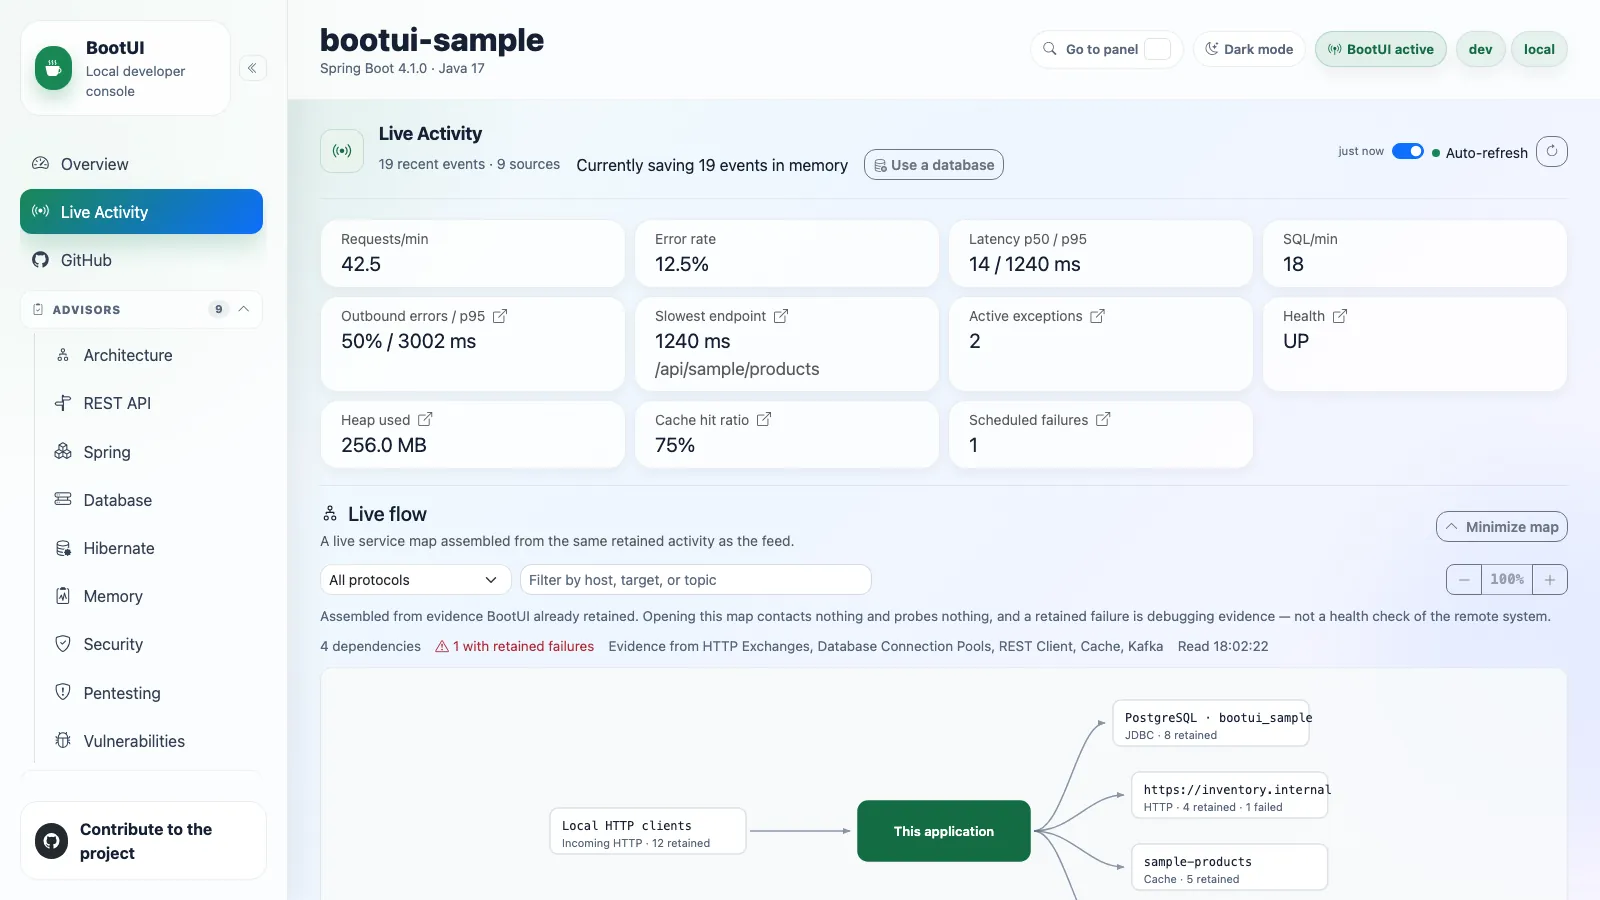
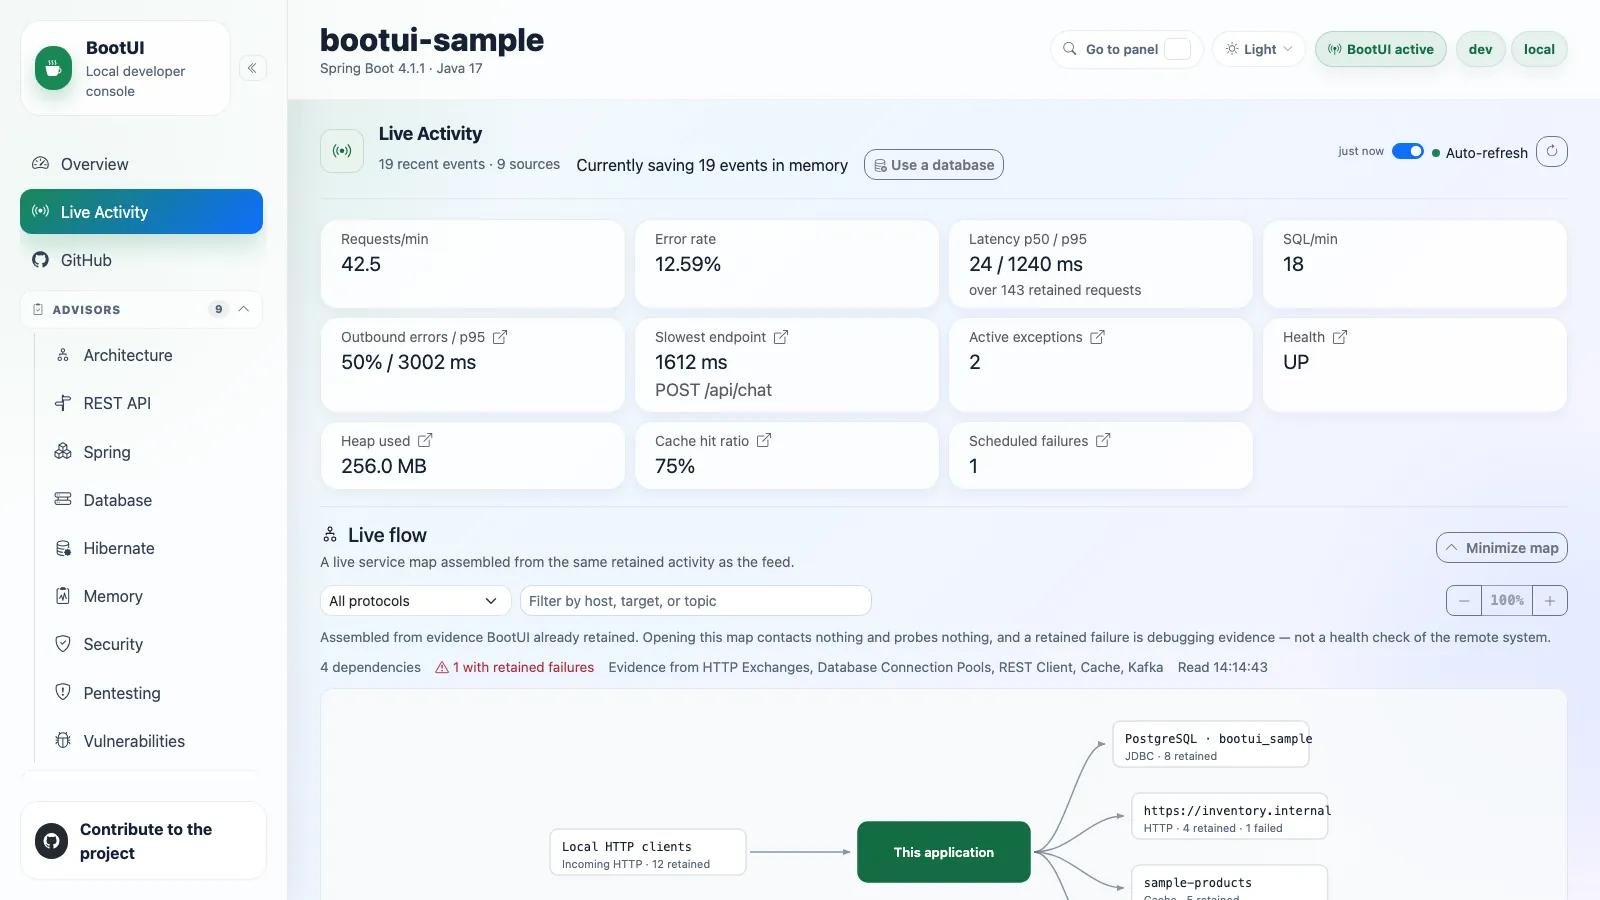
Refresh BootUI deck numbers and screenshots from boot-ui main (1.19.0)
Panels 58->60, advisor rules 437->411 (per-advisor counts updated),
MCP tools ~79->90, Live Activity signals 9->10, GraalVM/CRaC checks
30/19, Quarkus security 45, version 1.19.0, refreshed screenshots.

Copilot-Session: ac353815-7a11-4caa-8aef-dd2f95337d04

diff --git a/conferences/bootui/index-en.html b/conferences/bootui/index-en.html
@@ -447,7 +447,7 @@
         <div class="gh-main">
             <h1>Introduction to<br/><span class="grad">BootUI</span></h1>
             <p class="gh-lede">Your app is a black box. BootUI turns the lights on.</p>
-            <p class="gh-sub">An embedded developer console for Spring Boot 4 and Quarkus. One codebase, three stacks, 58 panels. 🔦</p>
+            <p class="gh-sub">An embedded developer console for Spring Boot 4 and Quarkus. One codebase, three stacks, 60 panels. 🔦</p>
             <div class="gh-foot">
                 <ul class="gh-tags"><li>Developer console</li><li>Spring Boot 4 · Quarkus</li><li>Local-only · fail-closed</li></ul>
                 <div class="gh-speaker">
@@ -567,7 +567,7 @@
         <div class="card t-blue">
             <h3 class="blue">🩺 Advisors</h3>
             <ul class="tight">
-                <li><span class="ink fw-700">437 rules</span> across 10 advisors — architecture, security,
+                <li><span class="ink fw-700">411 rules</span> across 10 advisors — architecture, security,
                     Hibernate, memory, dependencies</li>
                 <li>Every finding names the cause and the <span class="ink fw-700">fix</span></li>
                 <li>One score out of 100, on demand — never on page load</li>
@@ -576,7 +576,7 @@
         <div class="card t-teal">
             <h3 class="teal">📊 A live console</h3>
             <ul class="tight">
-                <li><span class="ink fw-700">58 panels</span> in 9 groups, in your browser</li>
+                <li><span class="ink fw-700">60 panels</span> in 9 groups, in your browser</li>
                 <li>Requests, SQL, transactions, exceptions and the JVM —
                     <span class="ink fw-700">as they happen</span></li>
                 <li>Explains what it means first; raw JSON one click away</li>
@@ -585,7 +585,7 @@
         <div class="card t-violet">
             <h3 class="violet">🤖 An MCP server</h3>
             <ul class="tight">
-                <li>The same data, <span class="ink fw-700">≈79 tools</span>, for your coding agent</li>
+                <li>The same data, <span class="ink fw-700">90 tools</span>, for your coding agent</li>
                 <li>Opt-in and loopback only — off until you turn it on</li>
                 <li>Your agent stops guessing and <span class="ink fw-700">reads the running app</span></li>
             </ul>
@@ -629,7 +629,7 @@
 <div class="codeblock">&lt;<span class="k">dependency</span>&gt;
   &lt;<span class="k">groupId</span>&gt;<span class="s">com.julien-dubois.bootui</span>&lt;/<span class="k">groupId</span>&gt;
   &lt;<span class="k">artifactId</span>&gt;<span class="s">bootui-spring-boot-starter</span>&lt;/<span class="k">artifactId</span>&gt;
-  &lt;<span class="k">version</span>&gt;<span class="s">1.15.0</span>&lt;/<span class="k">version</span>&gt;
+  &lt;<span class="k">version</span>&gt;<span class="s">1.19.0</span>&lt;/<span class="k">version</span>&gt;
 &lt;/<span class="k">dependency</span>&gt;</div>
             <div class="txt-xs muted mt-xs"><span class="mono">-reactive</span> for WebFlux.</div>
         </div>
@@ -638,7 +638,7 @@
 <div class="codeblock">&lt;<span class="k">dependency</span>&gt;
   &lt;<span class="k">groupId</span>&gt;<span class="s">com.julien-dubois.bootui</span>&lt;/<span class="k">groupId</span>&gt;
   &lt;<span class="k">artifactId</span>&gt;<span class="s">bootui-quarkus</span>&lt;/<span class="k">artifactId</span>&gt;
-  &lt;<span class="k">version</span>&gt;<span class="s">1.15.0</span>&lt;/<span class="k">version</span>&gt;
+  &lt;<span class="k">version</span>&gt;<span class="s">1.19.0</span>&lt;/<span class="k">version</span>&gt;
 &lt;/<span class="k">dependency</span>&gt;</div>
             <div class="txt-xs muted mt-xs">A real Quarkus extension — runtime + deployment.</div>
         </div>
@@ -659,10 +659,10 @@
      SLIDE 8 — THE NUMBERS + THE MAP
 ══════════════════════════════════════════════════════════════ -->
 <section>
-    <h2>🧭 58 panels, 9 groups, one question each</h2>
+    <h2>🧭 60 panels, 9 groups, one question each</h2>
 
     <div class="grid-4" style="margin:0 0 .7em;">
-        <div class="card t-indigo"><div class="stat-num indigo">58</div><div class="stat-label">panels across 9 groups</div></div>
+        <div class="card t-indigo"><div class="stat-num indigo">60</div><div class="stat-label">panels across 9 groups</div></div>
         <div class="card t-teal"><div class="stat-num teal">3</div><div class="stat-label">stacks · one codebase</div></div>
         <div class="card t-violet"><div class="stat-num violet">1</div><div class="stat-label">Vue UI · one JSON contract</div></div>
         <div class="card t-emerald"><div class="stat-num emerald">0</div><div class="stat-label">extra processes to run</div></div>
@@ -778,11 +778,11 @@
 
     <div class="grid-2">
         <div class="card t-blue">
-            <h3 class="blue">437 rules, written with AI</h3>
+            <h3 class="blue">411 rules, written with AI</h3>
             <ul class="tight mt-sm">
                 <li>Every rule is its own class with a <span class="ink fw-700">stable id</span>, a severity and a
-                    <span class="ink fw-700">concrete recommendation</span> — Hibernate alone has 75, Security 61,
-                    REST&nbsp;API 56</li>
+                    <span class="ink fw-700">concrete recommendation</span> — Hibernate alone has 72, Security 54,
+                    REST&nbsp;API 53</li>
                 <li>Written with AI, then reviewed <span class="ink fw-700">one rule at a time</span>: the strongest
                     models applied to framework expertise, not a generic linter</li>
                 <li>No other console for Spring&nbsp;Boot or Quarkus carries a ruleset of this depth — it is
@@ -797,7 +797,7 @@
             <ul class="tight">
                 <li>9 severity-scored scanners, each starting at 100</li>
                 <li>Fixed penalties: <span class="mono">critical −25</span> · <span class="mono">high −10</span> · <span class="mono">medium −3</span> · <span class="mono">low −1</span></li>
-                <li>Overall = the mean of scanners that <span class="ink fw-700">actually scored</span></li>
+                <li>Overall = the mean of scanners that <span class="ink fw-700">actually scored</span> — plus GitHub's security-alert score when connected</li>
             </ul>
             <div class="mt-sm">
                 <div class="band"><span class="dot" style="background:var(--emerald);"></span> <b>80+</b>&nbsp; Good</div>
@@ -808,24 +808,24 @@
     </div>
 
     <div class="tagrow mt-md" style="justify-content:center;">
-        <span class="tag">Architecture 41</span><span class="tag">REST API 56</span><span class="tag">Spring 41</span>
-        <span class="tag">Quarkus 19</span><span class="tag">Database 28</span><span class="tag">Hibernate 75</span>
-        <span class="tag">Memory 36</span><span class="tag">Security 61</span><span class="tag">Pentesting 80</span>        <span class="tag">Vulnerabilities ∞</span>
+        <span class="tag">Architecture 40</span><span class="tag">REST API 53</span><span class="tag">Spring 41</span>
+        <span class="tag">Quarkus 14</span><span class="tag">Database 28</span><span class="tag">Hibernate 72</span>
+        <span class="tag">Memory 32</span><span class="tag">Security 54</span><span class="tag">Pentesting 77</span><span class="tag">Vulnerabilities ∞</span>
     </div>
 
     <div class="banner mt-sm sm">
         🛑 <span style="text-decoration:underline;text-decoration-color:rgba(255,255,255,.55);">Nothing is scanned on page load.</span>
-        Before any run, the gauge shows how many scanners have scored — not a fake zero. <span class="mono">Vulnerabilities</span> has no fixed count: it queries OSV.dev for known CVEs and adds how likely each one is to actually be exploited.
+        Before any run, Overview reads <em>Not scored</em> — never a fake zero. <span class="mono">Vulnerabilities</span> has no fixed count: it queries OSV.dev for known CVEs and adds how likely each one is to actually be exploited.
     </div>
 
     <aside class="notes">
-        Land the number: 437 rules, one class each, across the ten advisors on the slide. This is the moat — anyone can
+        Land the number: 411 rules, one class each, across the ten advisors on the slide. This is the moat — anyone can
         render a bean graph, nobody else has spent the time on the ruleset. Be straight about how it was built: written
         with AI, the strongest models pointed at real framework expertise, then reviewed rule by rule.
-        If asked, the shipped library is larger still: Quarkus apps swap Spring Security's 61 rules for 49
-        Quarkus-native ones, and WebFlux gets 26 reactive security rules — 512 rules in total, ported per stack rather
+        If asked, the shipped library is larger still: Quarkus apps swap Spring Security's 54 rules for 45
+        Quarkus-native ones, and WebFlux gets 26 reactive security rules — 482 rules in total, ported per stack rather
         than faked.
-        Two details worth saying out loud but not putting on the slide: Pentesting is 80 OWASP Top 10 2025 checks and
+        Two details worth saying out loud but not putting on the slide: Pentesting is 77 OWASP Top 10 2025 checks and
         sends at most one GET and one OPTIONS to literal 127.0.0.1; and when evidence is bounded away the scan is
         marked PARTIAL and the score is hidden rather than faked.
         The restraint is the story: a security tool that refuses to phone home until asked. Worth saying out loud:
@@ -847,11 +847,12 @@
 
     <div class="grid-2">
         <div class="card t-teal">
-            <h3 class="teal">One feed, nine signals</h3>
+            <h3 class="teal">One feed, ten signals</h3>
             <div class="tagrow">
                 <span class="tag">Requests</span><span class="tag">SQL</span><span class="tag">Exceptions</span>
                 <span class="tag">Security</span><span class="tag">Emails</span><span class="tag">Scheduled</span>
                 <span class="tag">Messaging</span><span class="tag">REST client</span><span class="tag">Cache</span>
+                <span class="tag">Fault tolerance</span>
             </div>
             <ul class="tight mt-sm">
                 <li>Signals <span class="ink fw-700">nest under the request</span> that caused them</li>
@@ -873,7 +874,7 @@
     </div>
 
     <div class="banner mt-md sm">
-        ⚡ Six of the nine signals reuse buffers other panels <em>already</em> fill — so the feed adds almost no new
+        ⚡ Six of the ten signals reuse buffers other panels <em>already</em> fill — so the feed adds almost no new
         instrumentation, and every value arrives already masked and bounded.
     </div>
 
@@ -900,7 +901,7 @@
                 <li><span class="ink fw-700">Heap Dump</span> — capture and analyse locally, class histogram only, never object values</li>
                 <li><span class="ink fw-700">Startup Timeline</span> and <span class="ink fw-700">Metrics</span> — where the seconds went, and every Micrometer meter grouped by who registered it</li>
                 <li><span class="ink fw-700">Health</span> and <span class="ink fw-700">HTTP Sessions</span> — the full contributor tree; sessions masked by default</li>
-                <li><span class="ink fw-700">GraalVM</span> and <span class="ink fw-700">CRaC</span> — 27 and 17 curated readiness checks</li>
+                <li><span class="ink fw-700">GraalVM</span> and <span class="ink fw-700">CRaC</span> — 30 and 19 curated readiness checks</li>
             </ul>
         </div>
         <div class="card t-indigo">
@@ -1063,7 +1064,7 @@
                 <li>What it can't determine is marked <span class="tag amber">best effort</span>, not guessed</li>
                 <li>WebFlux reads reactive <span class="mono">SecurityWebFilterChain</span> beans, non-blocking</li>
                 <li>Quarkus has no filter chains: <span class="tag slate">not applicable</span>, and the advisor swaps
-                    in <span class="ink fw-700">49 Quarkus-native checks</span></li>
+                    in <span class="ink fw-700">45 Quarkus-native checks</span></li>
             </ul>
         </div>
         <div class="card t-teal">
@@ -1278,10 +1279,10 @@
         <span class="shot-eyebrow">Fallback · Beat 2</span>
         <span class="shot-title">Run all scanners — the score appears from nothing</span>
     </div>
-    <img class="shot" src="img/bootui-overview.webp" alt="BootUI Overview panel showing an overall score of 86 out of 100 with 10 of 10 scanners scored" />
+    <img class="shot" src="img/bootui-overview.webp" alt="BootUI Overview panel showing an overall score of 86 out of 100, the average of 10 scores, with 9 of 9 advisors assessed" />
     <div class="shot-cap">
         <span class="ink fw-700">86 / 100</span>, and — the important part —
-        <span class="mono">10 of 10 scanners scored</span>. Before the run it says <em>0 of 10</em>, never a fake zero.
+        <span class="mono">9 of 9 advisors assessed</span>, plus GitHub's alert score. Before the run it reads <em>Not scored</em>, never a fake zero.
     </div>
 </section>
 
@@ -1291,9 +1292,9 @@
 <section>
     <div class="shot-head">
         <span class="shot-eyebrow">Fallback · Beat 3a</span>
-        <span class="shot-title">Live Activity — nine signals, and a live service map</span>
+        <span class="shot-title">Live Activity — vital signs, and a live service map</span>
     </div>
-    <img class="shot" src="img/bootui-activity.webp" alt="BootUI Live Activity panel with nine signal tiles and a live flow service map" />
+    <img class="shot" src="img/bootui-activity.webp" alt="BootUI Live Activity panel with summary tiles and a live flow service map" />
     <div class="shot-cap">
         The map is assembled from evidence BootUI <span class="ink fw-700">already retained</span> — opening it
         contacts nothing and probes nothing.
@@ -1378,15 +1379,15 @@
             <table class="dtable" style="font-size:var(--t-xs);">
                 <tbody>
                     <tr><td class="num">11</td><td>advisor scans — the same button the panel runs</td></tr>
-                    <tr><td class="num">11</td><td>cached reports — read without re-scanning</td></tr>
-                    <tr><td class="num">10</td><td>diagnostics reads — activity, exceptions, SQL, traces</td></tr>
-                    <tr><td class="num">33</td><td>context reads — overview, health, config, beans, mappings…</td></tr>
-                    <tr><td class="num">14</td><td>bounded controls — clear, pause, resume</td></tr>
+                    <tr><td class="num">18</td><td>cached reports and rule details — read without re-scanning</td></tr>
+                    <tr><td class="num">11</td><td>diagnostics reads — activity, exceptions, SQL, routes, traces</td></tr>
+                    <tr><td class="num">35</td><td>context reads — overview, health, config, beans, mappings…</td></tr>
+                    <tr><td class="num">15</td><td>bounded controls — clear, pause, resume, bounded DB reads</td></tr>
                 </tbody>
             </table>
             <div class="txt-xs muted mt-xs">Tools whose panel is absent are simply <span class="ink fw-700">not advertised</span>.</div>
             <div class="stat-strip mt-sm">
-                <div><span class="stat-inline indigo">≈79</span> <span class="txt-xs muted">tools · one loopback endpoint</span></div>
+                <div><span class="stat-inline indigo">90</span> <span class="txt-xs muted">tools · one loopback endpoint</span></div>
                 <div><span class="stat-inline emerald">0</span> <span class="txt-xs muted">screenshots to interpret</span></div>
             </div>
         </div>
@@ -1399,6 +1400,7 @@
 
     <aside class="notes">
         Emphasise: the agent sees exactly the masked, bounded shape a human sees. It is not a privileged back door.
+        90 is the Spring MVC catalog; Quarkus declares 74, because tools behind Spring-only panels are withheld.
     </aside>
 </section>
 
